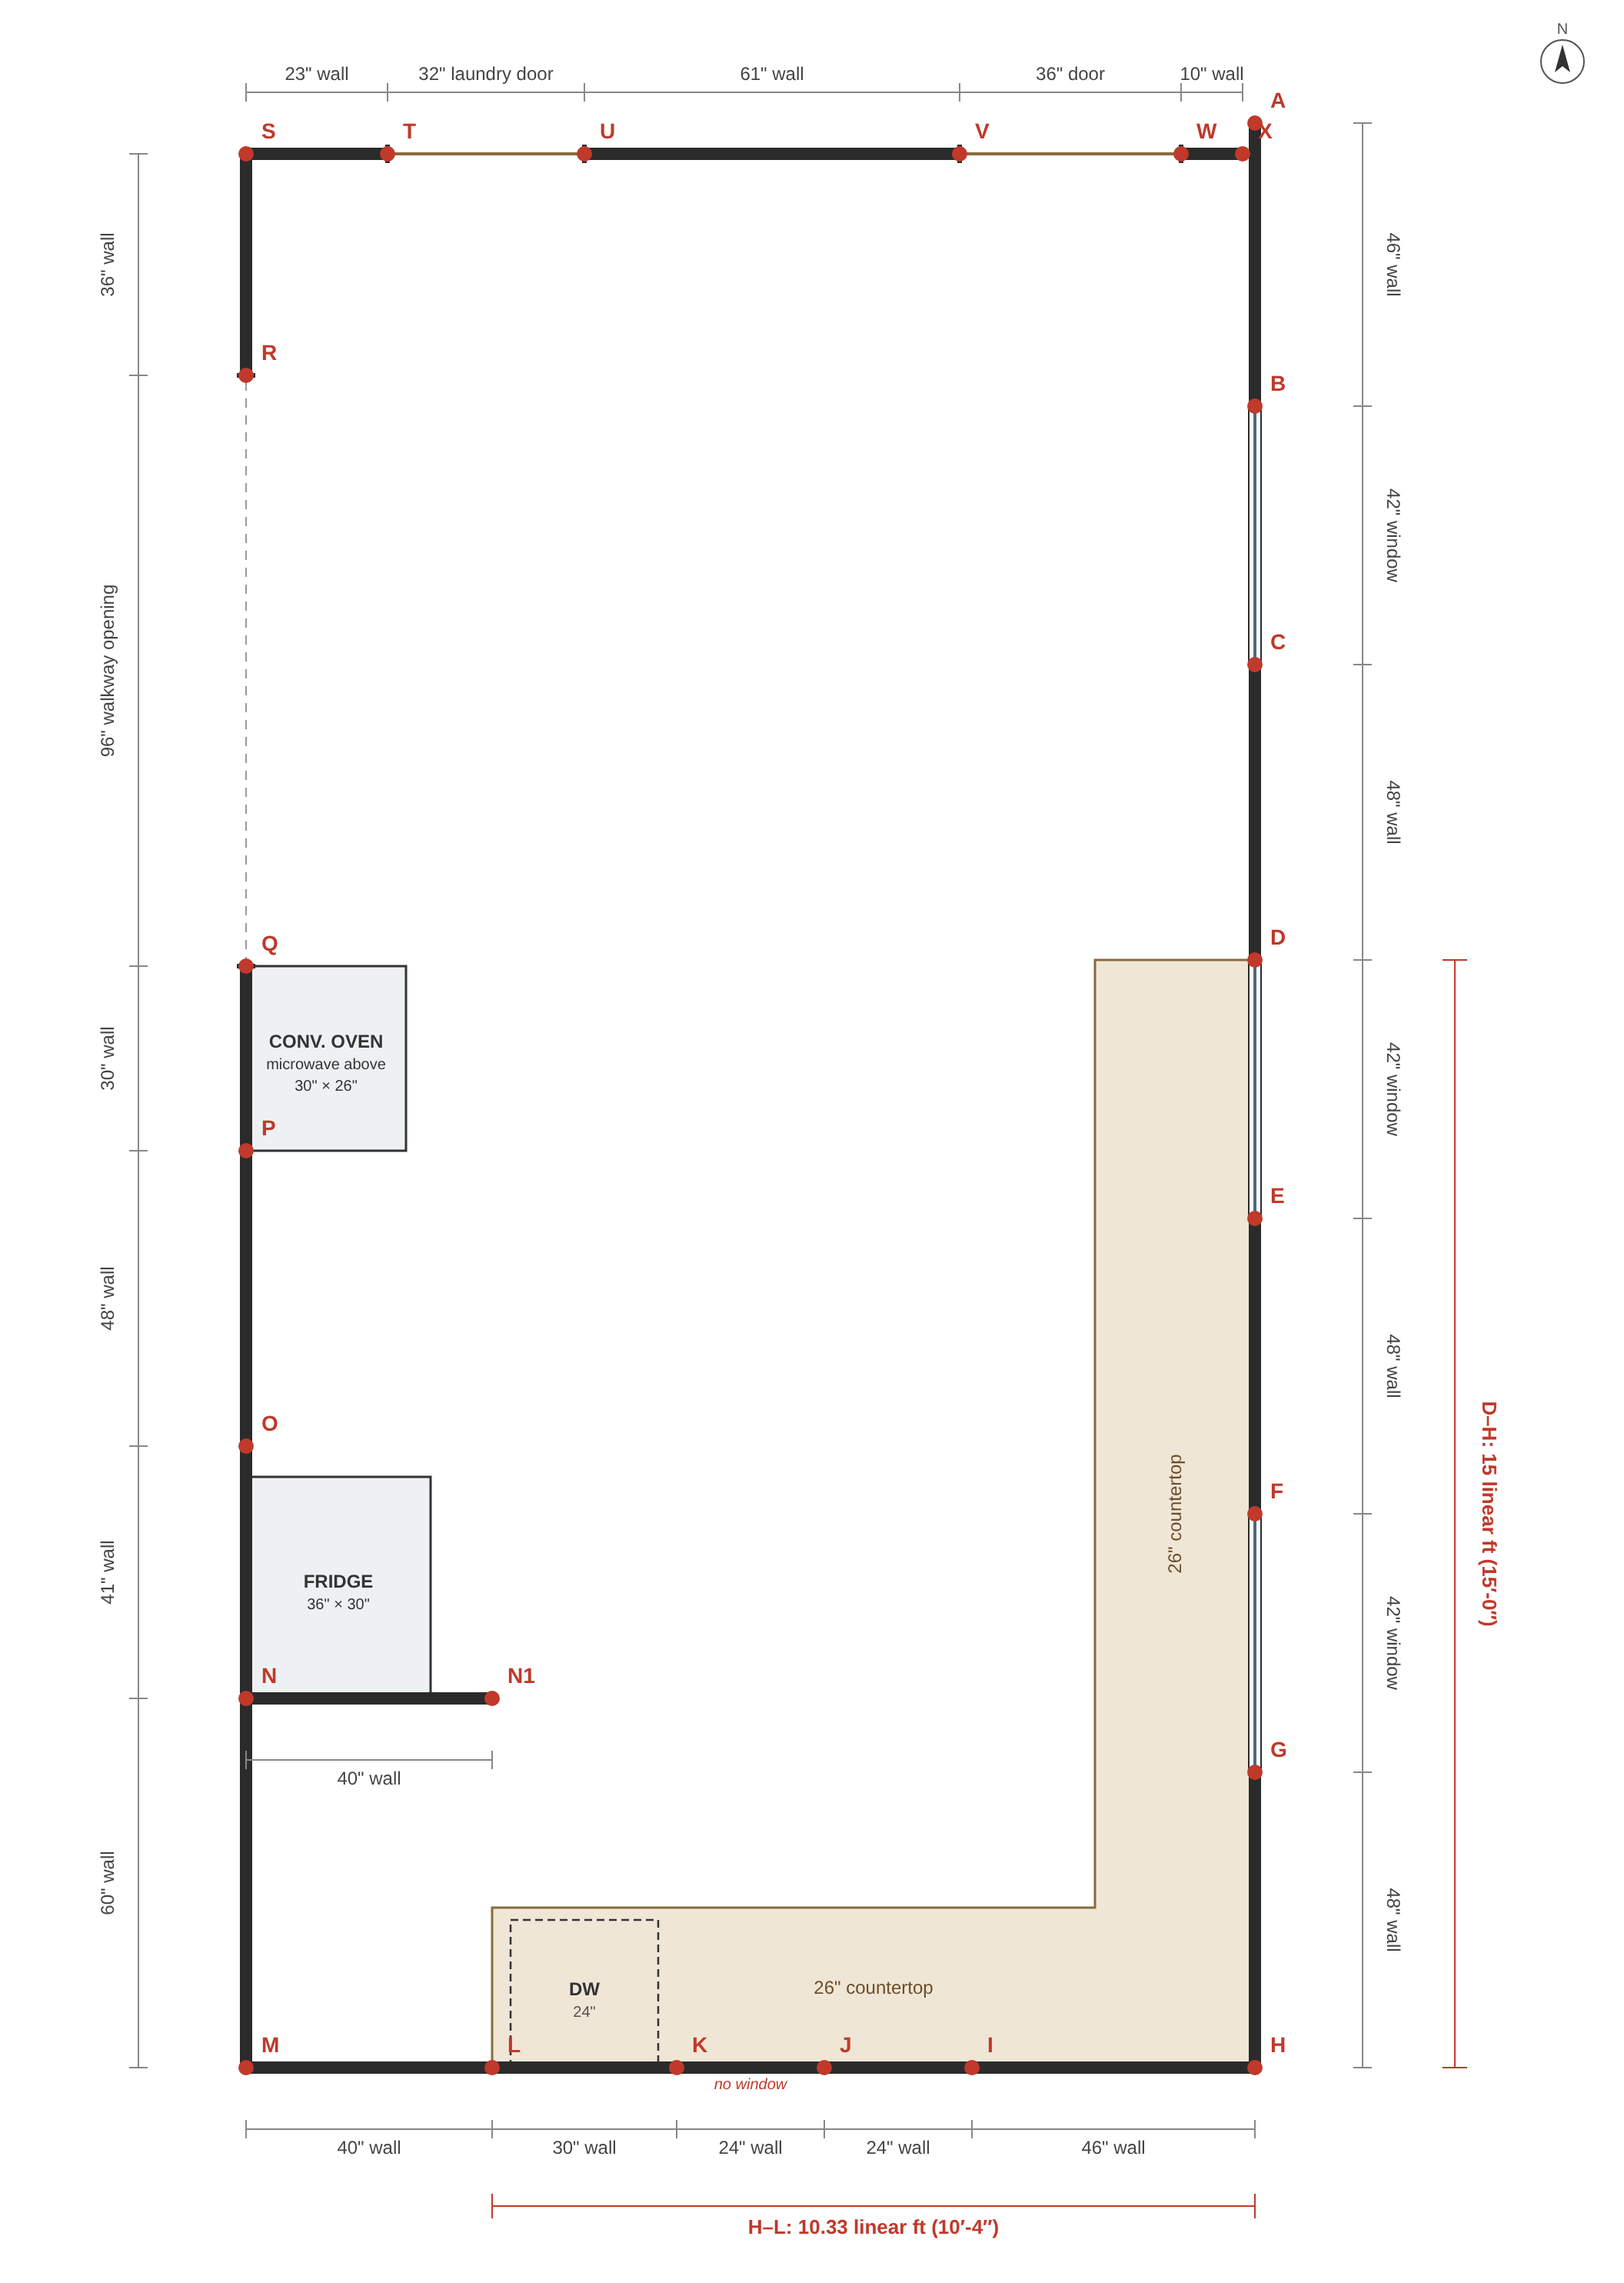
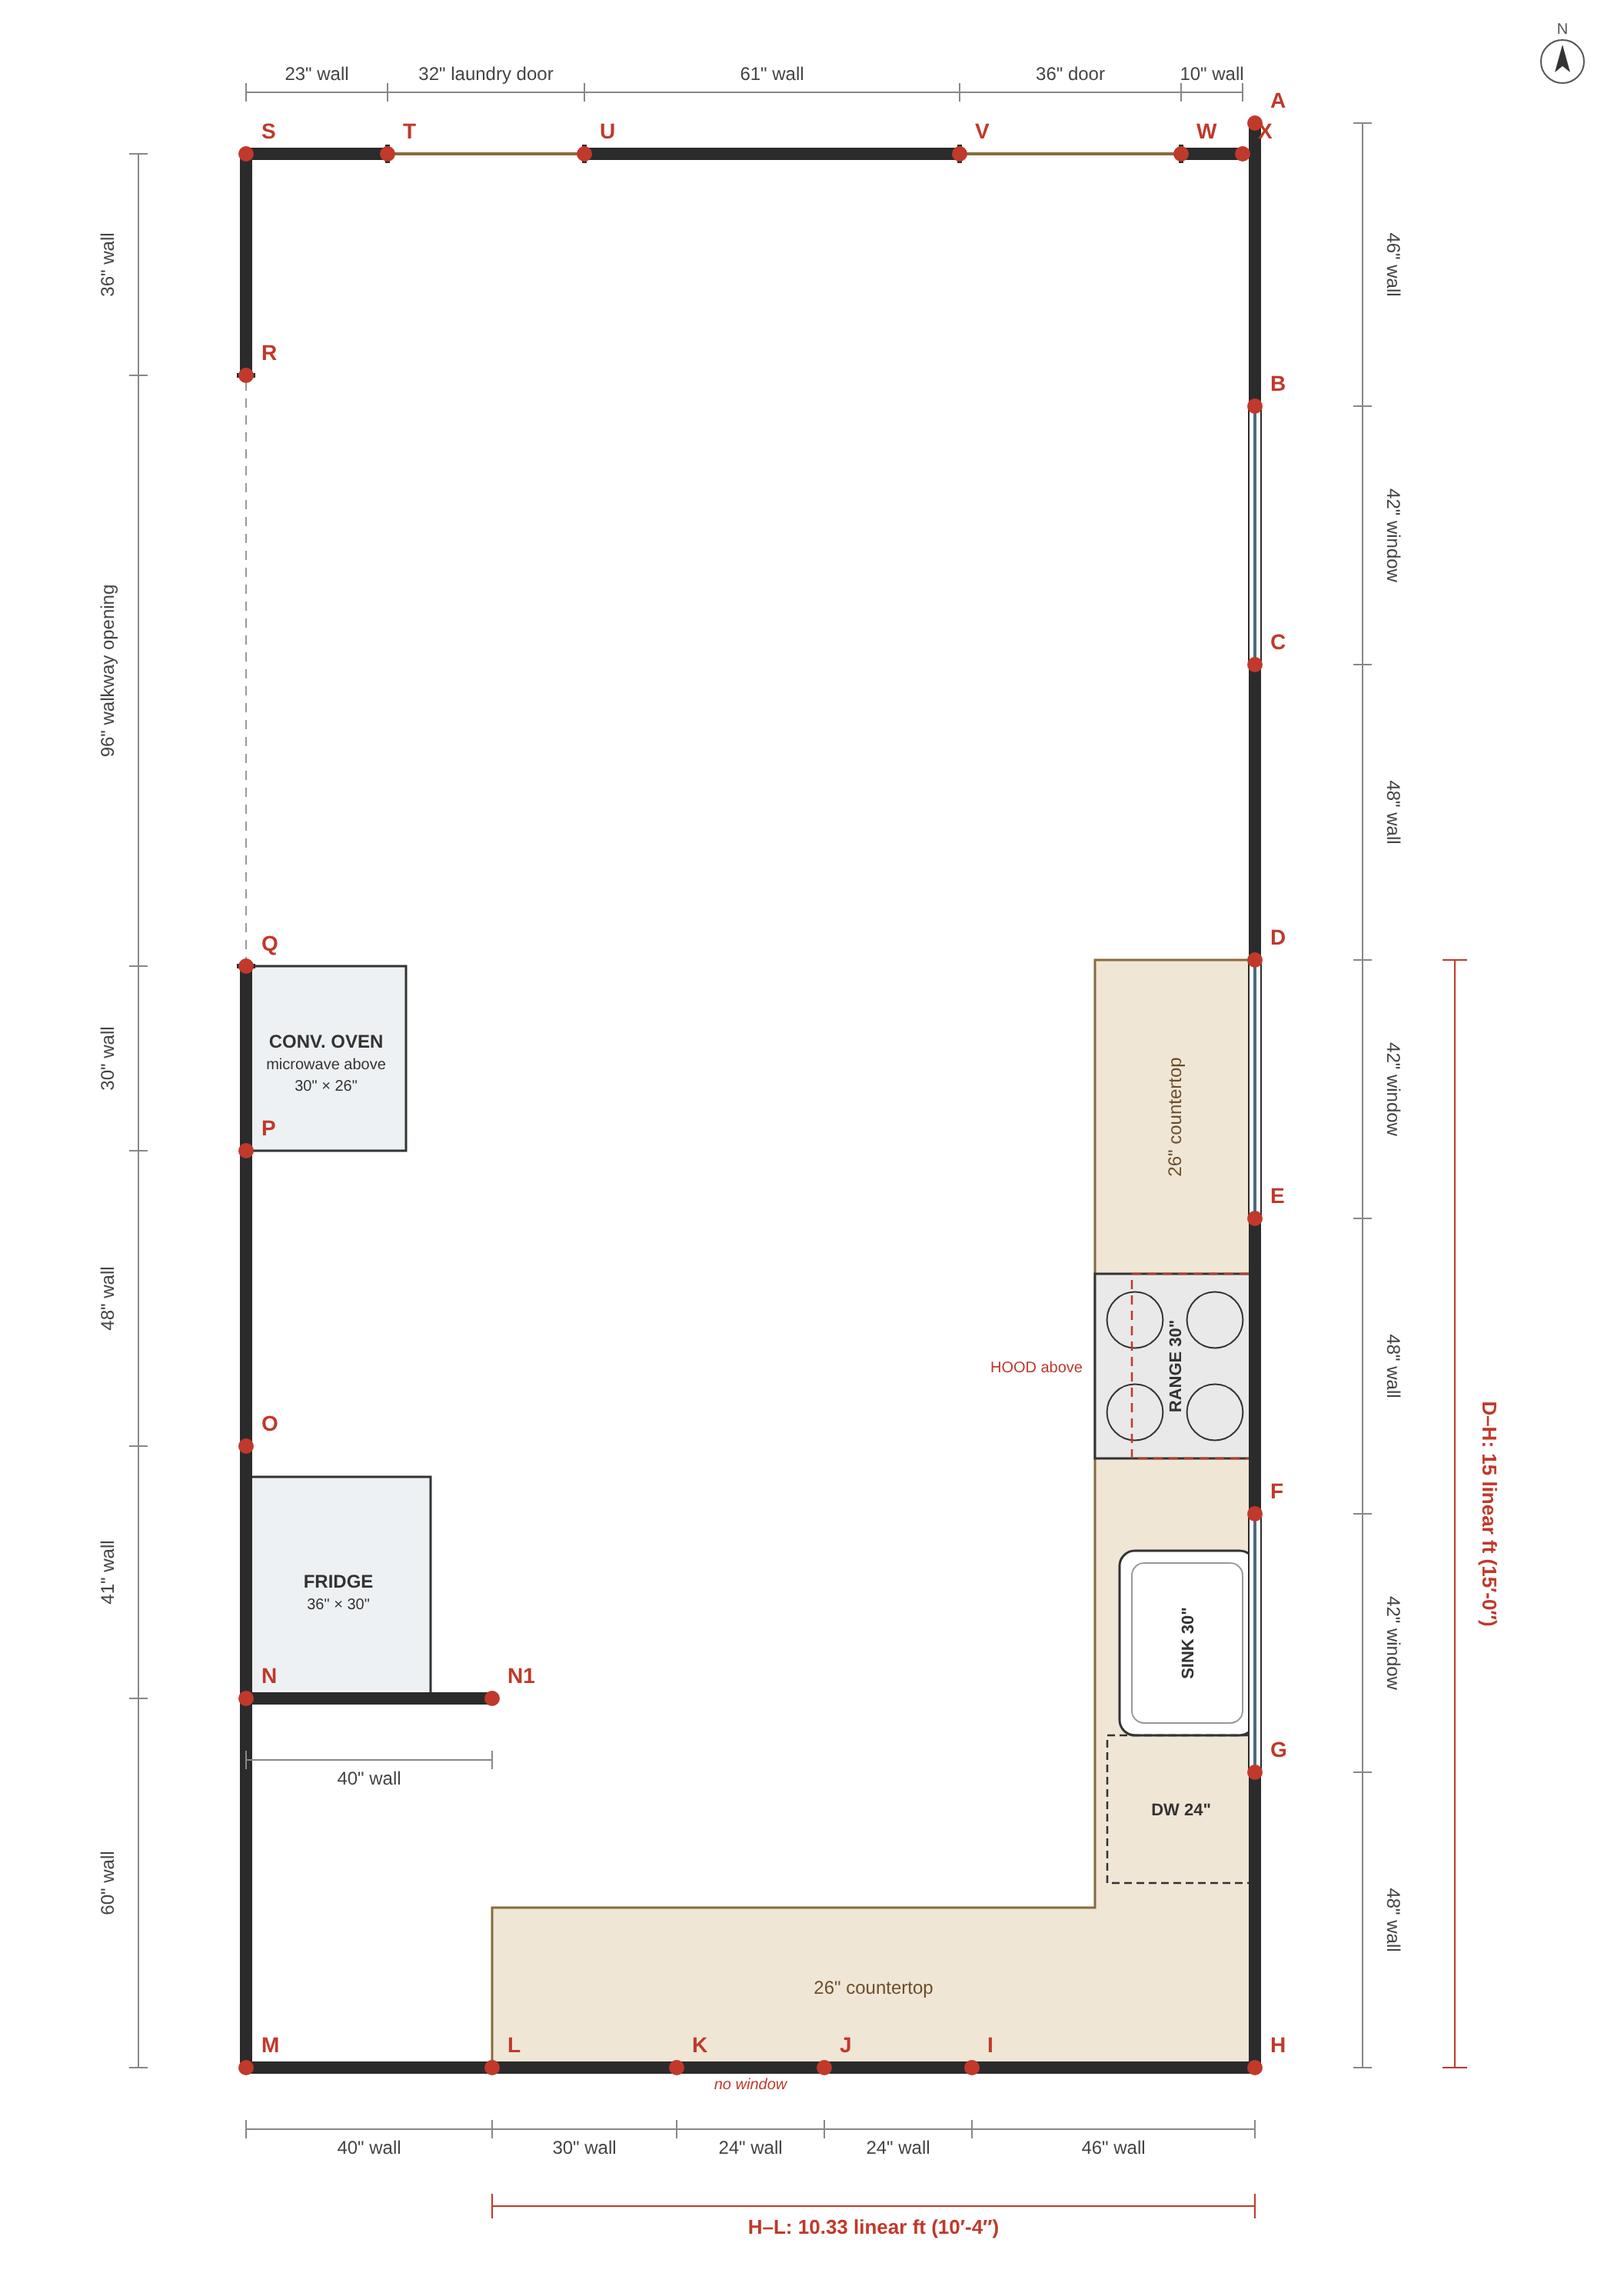
Floor plan: add range with hood on E-F, sink at window F-G, move dishwasher beside sink
Claude-Session: https://claude.ai/code/session_01N1gJVqnW36KpNULQpj6QJQ

Changed region(s): [[0.6875, 0.558, 0.7812, 0.7749], [0.7188, 0.465, 0.75, 0.496]]

diff --git a/floorplans/build_floorplan.py b/floorplans/build_floorplan.py
@@ -53,8 +53,14 @@ APPLIANCES = [
 # Design constraints: segments (by end points) that must never be a window.
 NO_WINDOW = [("J", "K")]
 
-# Under-counter appliances, centred on a wall segment and drawn dashed: (label, from, to, width, depth)
-UNDER_COUNTER = [("DW", "K", "L", 24, 24)]
+# Fixtures placed along a wall run, measured in inches from the first point:
+# (kind, label, from, to, offset, width, depth). kind: range | hood | sink | under
+FIXTURES = [
+    ("range", "RANGE", "D", "H", 51, 30, 26),  # centred on solid wall E-F; cook faces east
+    ("hood", "HOOD above", "D", "H", 51, 30, 20),  # vents straight out the exterior east wall
+    ("sink", "SINK", "D", "H", 96, 30, 22),  # centred on window F-G
+    ("under", "DW", "D", "H", 126, 24, 24),  # right of the sink, 4" filler before the corner
+]
 
 DIM_OFFSET = 40  # px, dimension line offset to the left/top of the segment
 
@@ -110,8 +116,11 @@ def build():
         out.append(f'  <path id="counter-{"".join(labels)}" d="{d_attr}" fill="#efe6d6" stroke="#8a6a3d" stroke-width="1.5"/>')
         for i, (a, b) in enumerate(zip(wall, wall[1:])):
             # label centred on each run, inside the counter
-            mx = (a[1] + b[1]) / 2 + normals[i][0] * depth / 2
-            my = (a[2] + b[2]) / 2 + normals[i][1] * depth / 2
+            # centre of the run, or of the free stretch before the first fixture on it
+            first = min((f[4] for f in FIXTURES if (f[2], f[3]) == (labels[i], labels[i + 1])), default=None)
+            t = 0.5 if first is None else first / 2 / (abs(b[1] - a[1]) + abs(b[2] - a[2]))
+            mx = a[1] + (b[1] - a[1]) * t + normals[i][0] * depth / 2
+            my = a[2] + (b[2] - a[2]) * t + normals[i][1] * depth / 2
             tx, ty = P(mx, my)
             rot = f' transform="rotate(-90 {tx} {ty})"' if a[1] == b[1] else ""
             out.append(f'  <text x="{tx}" y="{ty + 4}" font-size="12" fill="#6b4f2a" text-anchor="middle"{rot}>{depth}" countertop</text>')
@@ -143,20 +152,41 @@ def build():
         tx, ty = P((a[1] + b[1]) / 2, (a[2] + b[2]) / 2)
         out.append(f'  <text x="{tx}" y="{ty + 14}" font-size="10" font-style="italic" fill="#c0392b" text-anchor="middle">no window</text>')
 
-    for name, a_lbl, b_lbl, w, dep in UNDER_COUNTER:
+    for kind, name, a_lbl, b_lbl, off, w, dep in FIXTURES:
         a, b = by_label[a_lbl], by_label[b_lbl]
         if a[1] == b[1]:
             nx = 1 if cx_in > a[1] else -1
-            mid = (a[2] + b[2]) / 2
-            rx, ry = (a[1], a[1] + nx * dep), (mid - w / 2, mid + w / 2)
+            sy = 1 if b[2] > a[2] else -1
+            rx, ry = (a[1], a[1] + nx * dep), (a[2] + sy * off, a[2] + sy * (off + w))
         else:
             ny = 1 if cy_in > a[2] else -1
-            mid = (a[1] + b[1]) / 2
-            rx, ry = (mid - w / 2, mid + w / 2), (a[2], a[2] + ny * dep)
+            sx = 1 if b[1] > a[1] else -1
+            rx, ry = (a[1] + sx * off, a[1] + sx * (off + w)), (a[2], a[2] + ny * dep)
         (x1, y1), (x2, y2) = P(min(rx), min(ry)), P(max(rx), max(ry))
-        out.append(f'  <g id="under-{name.lower()}"><rect x="{x1}" y="{y1}" width="{x2 - x1}" height="{y2 - y1}" fill="none" stroke="#333" stroke-width="1.25" stroke-dasharray="5 3"/>'
-                   f'<text x="{(x1 + x2) / 2}" y="{(y1 + y2) / 2 + 1}" font-size="12" font-weight="700" fill="#333" text-anchor="middle">{name}</text>'
-                   f'<text x="{(x1 + x2) / 2}" y="{(y1 + y2) / 2 + 15}" font-size="10" fill="#555" text-anchor="middle">{w}"</text></g>')
+        cx, cy = (x1 + x2) / 2, (y1 + y2) / 2
+        g = [f'  <g id="{kind}-{name.split()[0].lower()}">']
+        if kind == "range":
+            g.append(f'<rect x="{x1}" y="{y1}" width="{x2 - x1}" height="{y2 - y1}" fill="#e9e9e9" stroke="#333" stroke-width="1.5"/>')
+            bw, bh = (x2 - x1) / 4, (y2 - y1) / 4
+            for fx in (1, 3):
+                for fy in (1, 3):
+                    g.append(f'<circle cx="{x1 + fx * bw}" cy="{y1 + fy * bh}" r="{min(bw, bh) * 0.7}" fill="none" stroke="#333"/>')
+        elif kind == "hood":
+            g.append(f'<rect x="{x1}" y="{y1}" width="{x2 - x1}" height="{y2 - y1}" fill="none" stroke="#c0392b" stroke-width="1.25" stroke-dasharray="6 4"/>')
+        elif kind == "sink":
+            g.append(f'<rect x="{x1}" y="{y1}" width="{x2 - x1}" height="{y2 - y1}" rx="10" fill="#fff" stroke="#333" stroke-width="1.5"/>'
+                     f'<rect x="{x1 + 8}" y="{y1 + 8}" width="{x2 - x1 - 16}" height="{y2 - y1 - 16}" rx="8" fill="none" stroke="#999"/>')
+        else:
+            g.append(f'<rect x="{x1}" y="{y1}" width="{x2 - x1}" height="{y2 - y1}" fill="none" stroke="#333" stroke-width="1.25" stroke-dasharray="5 3"/>')
+        if kind != "hood":
+            vertical = a[1] == b[1]
+            rot = f' transform="rotate(-90 {cx} {cy})"' if vertical and kind in ("range", "sink") else ""
+            g.append(f'<text x="{cx}" y="{cy + 4}" font-size="11" font-weight="700" fill="#333" text-anchor="middle"{rot}>{name} {w}"</text>')
+        else:
+            tx = x1 - 32 if a[1] == b[1] else cx
+            g.append(f'<text x="{tx}" y="{cy + 4}" font-size="10" fill="#c0392b" text-anchor="end">{name}</text>')
+        g.append('</g>')
+        out.append("".join(g))
 
     for i, seg in enumerate(SEGMENTS):
         d, length, kind, label = seg[:4]
